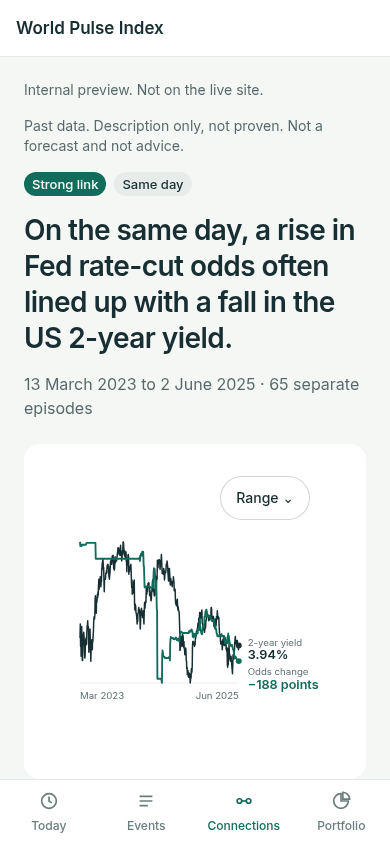
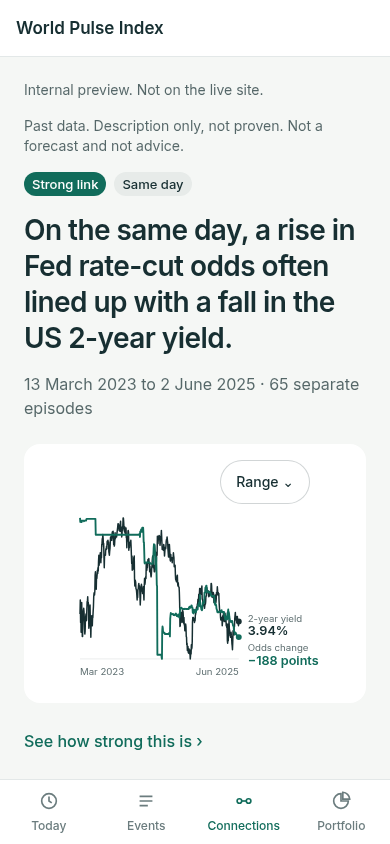
Clear the phone strength labels and the first-screen link
On a narrow screen the two strength labels sit on their own rows, and the phone chart card is shorter so the first-screen link clears the bottom bar. An unknown connection id returns 404, and Inter falls back to the system font.

diff --git a/site/app/connections/[pair_id]/page.js b/site/app/connections/[pair_id]/page.js
@@ -1,3 +1,4 @@
+import { notFound } from 'next/navigation';
 import { buildDetailState, loadConnections, parsePairId } from '../../../lib/connections.js';
 import { parseLinkId } from '../../../lib/correlations.js';
 import { loadDetail } from '../../../lib/linkScreen.js';
@@ -20,7 +21,14 @@ export async function generateMetadata({ params }) {
 export default async function ConnectionPairPage({ params, searchParams }) {
   const { pair_id: id } = await params;
   const sp = await searchParams;
+  if (parsePairId(id)) {
+    const state = buildDetailState(loadConnections(), id);
+    if (state.mode !== 'detail') notFound();
+    if (sp.state === 'loading') return <ConnectionsLoading />;
+    return <ConnectionDetail state={state} />;
+  }
+  const detail = loadDetail(id);
+  if (!detail || detail.mode !== 'ready') notFound();
   if (sp.state === 'loading') return <ConnectionsLoading />;
-  if (parsePairId(id)) return <ConnectionDetail state={buildDetailState(loadConnections(), id)} />;
-  return <LinkDetailView state={loadDetail(id)} />;
+  return <LinkDetailView state={detail} />;
 }

diff --git a/site/app/connections/connections.css b/site/app/connections/connections.css
@@ -131,7 +131,12 @@ body:has(.cx-shell){background:#f5f7f5}
   .cx-tags{margin-top:16px}
   .cx-shell h1{font-size:28px;line-height:36px;margin-top:16px}
   .cx-meta{font-size:16px;line-height:24px}
-  .cx-chartcard{padding:16px;margin-top:24px}
+  .cx-chartcard{padding:16px 16px 8px;margin-top:24px}
+  .cx-chart{margin-block:0}
+  .cx-cardtop{margin-bottom:8px}
+  .cx-readout:empty{display:none}
+  .cx-scale-labels{height:auto;display:flex;flex-direction:column;align-items:stretch;gap:4px}
+  .cx-scale-link,.cx-scale-chance{position:static;transform:none;display:block;width:100%;white-space:normal}
   .cx-sec{margin-top:64px}
   .cx-shell h2{font-size:22px;line-height:28px}
   .cx-sub{font-size:16px;line-height:24px}

diff --git a/site/middleware.js b/site/middleware.js
@@ -1,0 +1,20 @@
+import { NextResponse } from 'next/server';
+import ids from './lib/knownConnectionIds.json';
+
+const known = new Set(ids);
+
+export function middleware(request) {
+  const match = request.nextUrl.pathname.match(/^\/connections\/([^/]+)$/);
+  if (!match) return NextResponse.next();
+  let id = match[1];
+  try { id = decodeURIComponent(id); } catch { /* keep the raw segment */ }
+  if (known.has(id)) return NextResponse.next();
+  return new NextResponse('This page could not be found.', {
+    status: 404,
+    headers: { 'content-type': 'text/plain; charset=utf-8' },
+  });
+}
+
+export const config = {
+  matcher: ['/connections/:pair_id'],
+};

diff --git a/site/app/layout.js b/site/app/layout.js
@@ -2,7 +2,7 @@ import { Inter } from 'next/font/google';
 import { Header, Transition } from './components/Chrome.js';
 import './globals.css';
 
-const inter = Inter({ subsets: ['latin'], weight: ['400', '500', '600', '700'], variable: '--font-inter' });
+const inter = Inter({ subsets: ['latin'], weight: ['400', '500', '600', '700'], variable: '--font-inter', fallback: ['ui-sans-serif', 'system-ui', 'sans-serif'] });
 
 export const metadata = {
   title: 'World Pulse Index',

diff --git a/site/app/globals.css b/site/app/globals.css
@@ -6,7 +6,7 @@
   --move-up:#116C5B; --move-down:#B4532A;
   --flag-ink:#8A5A00; --flag-bg:#FFF4DB; --guess-ink:#5B4B8A; --guess-bg:#EFEBFA; --fact-ink:#3E5254; --fact-bg:#EEF1F1;
   --error-ink:#A3262A; --error-bg:#FDECEC;
-  --font:var(--font-inter);
+  --font:var(--font-inter),ui-sans-serif,system-ui,sans-serif;
   --ease:250ms ease-out;
 }
 *{box-sizing:border-box}
